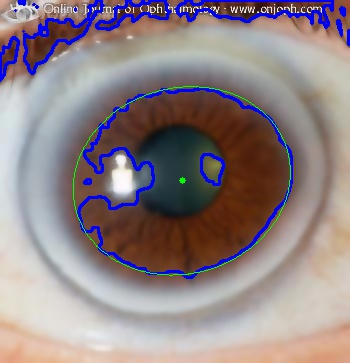
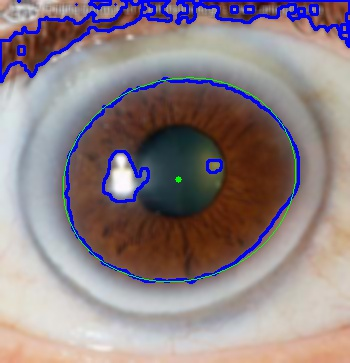
EDD-18 - add pupil masking

diff --git a/preprocessing.py b/preprocessing.py
@@ -5,6 +5,7 @@ import math
 
 class iris_detection():
     def __init__(self, image_path, typ):
+        self.img_masked = None
         self.img_gray = None
         self.img_cropped = None
         self.img_path = image_path
@@ -16,18 +17,19 @@ class iris_detection():
         # load image
         self.load_image(self.full_path)
 
-        # reduce noise
-        self._img = cv2.bilateralFilter(self._img, d=9, sigmaColor=150, sigmaSpace=20)
+        # reduce noise (image smoothing)
+        #self._img = cv2.bilateralFilter(self._img, d=9, sigmaColor=150, sigmaSpace=20)
+        self._img = cv2.GaussianBlur(self._img, (5, 5), cv2.BORDER_DEFAULT)
 
         kernel = cv2.getStructuringElement(cv2.MORPH_RECT, (5, 5))
 
         self.convert_to_gray_scale(self._img)
 
-        retval, thresholded = cv2.threshold(self.img_gray, 80, 255, cv2.THRESH_TOZERO_INV)
+        _, thresholded = cv2.threshold(self.img_gray, 100, 255, cv2.THRESH_TOZERO_INV)
 
         closed = cv2.erode(cv2.dilate(thresholded, kernel, iterations=1), kernel, iterations=1)
 
-        contours, hierarchy = cv2.findContours(closed, cv2.RETR_TREE, cv2.CHAIN_APPROX_NONE)
+        contours, _ = cv2.findContours(closed, cv2.RETR_TREE, cv2.CHAIN_APPROX_NONE)
 
         drawing = np.copy(self._img)
 
@@ -42,15 +44,15 @@ class iris_detection():
 
             extend = area / (bounding_box[2] * bounding_box[3])
 
-            # removing candidates that are too small
-            if area < 20000:
+            # reject the contours that are too small
+            if area < 15000:
                 continue
 
             # reject the contours with big extend
             if extend > 0.8:
                 continue
 
-            # computing the convex hull of the contours
+            # compute the convex hull of the contours
             contour = cv2.convexHull(contour)
 
             # measure of roundness
@@ -77,6 +79,9 @@ class iris_detection():
             try:
                 ellipse = cv2.fitEllipse(contour)
                 cv2.ellipse(drawing, box=ellipse, color=(0, 255, 0))
+
+                img = np.copy(drawing)
+                self.mask_pupil(img, contour)
             except:
                 pass
 
@@ -105,6 +110,14 @@ class iris_detection():
         x, y, w, h = cv2.boundingRect(contour)
 
         self.img_cropped = image[y:y + h, x:x + w]
+
+    def mask_pupil(self, drawing, contour):
+        ellipse = cv2.fitEllipse(contour)
+        self.img_masked = cv2.ellipse(drawing, box=ellipse, color=(0, 0, 0), thickness=-1)
+
+        store_path = "{}_masked.{}".format(self.img_path, self.typ)
+
+        self.store_image(self.img_masked, store_path)
 
     def store_image(self, image, path):
         cv2.imwrite(path, image)
